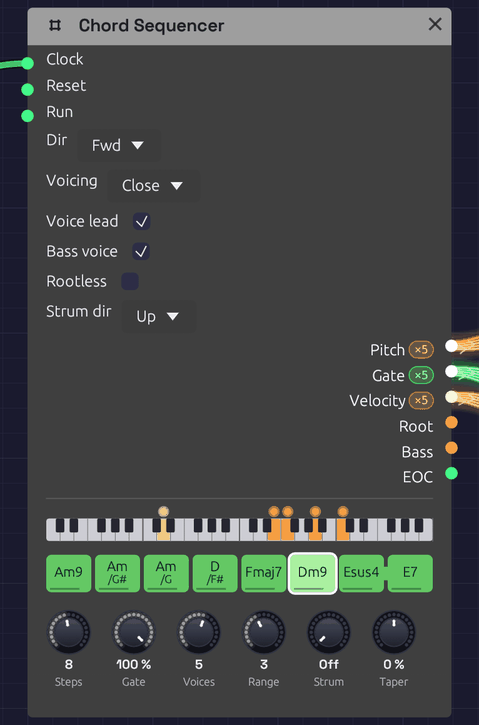
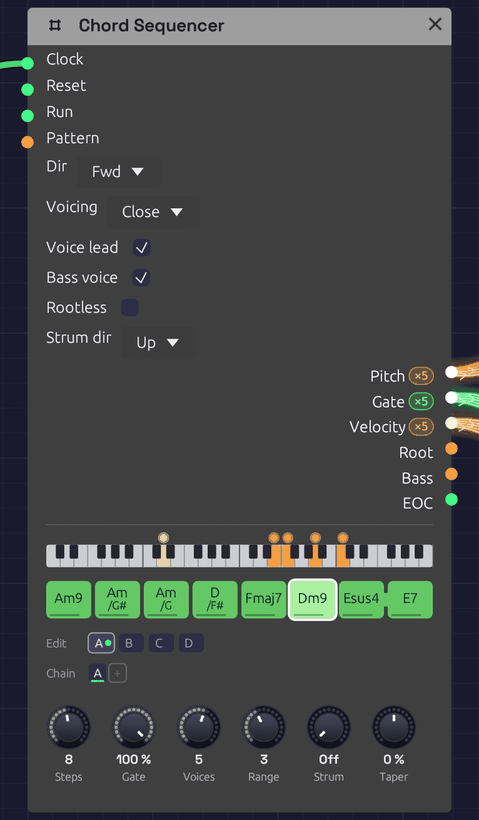
[Phase 14] Make room for the Chord Sequencer's pattern tabs in four examples
- From One Sine: Harmony grows 80; the left column below it (Motif, Pad,
  Drums) moves down 80, and the film's aim points there move with it
- Front Porch: The hand grows 84 and The porch moves down under it
- Held Vowels: The pad grows 86
- Soba Speaks: the pad's note moves down clear of the face
- Module image re-shot with the tabs and Chain
- check_layout passes on all four

Refs #240

Claude-Session: https://claude.ai/code/session_01L5A3PZ5EnxuytECsamML6D

diff --git a/tools/showcase/shots.py b/tools/showcase/shots.py
@@ -397,28 +397,30 @@ def from_one_sine(s):
     # is 5923 x 4957, so it fits at the 0.2 minimum zoom.
     c = (960.0, 508.0)
     whole = (2962, 2479)
-    motif = (888, 2391)
-    opening = (500, 2198)
+    # The left column below Harmony moved down 80 when the Chord Sequencer
+    # grew its pattern tabs (#240)
+    motif = (888, 2471)
+    opening = (500, 2278)
     # (start, glide seconds, centre, zoom, what)
     shots = [
         (-1.0, 0.05, opening, 1.5, "the sine and its sequencer, alone, with the note that explains them"),
-        (3.0, 13.0, (860, 2248), 1.25, "a slow drift along the motif"),
+        (3.0, 13.0, (860, 2328), 1.25, "a slow drift along the motif"),
         (u(3), 12.0, (1895, 2429), 0.43, "back out: the pad, sparkles and harmony arrive"),
         (u(5) - 1.0, 3.0, (3100, 734), 0.64, "Pulse: arp and bass"),
         (u(7) - 0.5, 3.0, (2990, 2033), 0.88, "the bells and sparkles"),
         (u(8) + 1.0, 3.0, (2808, 2995), 1.1, "the riser"),
-        (u(9) - 0.6, 1.4, (1623, 4474), 0.56, "Groove: the kit"),
+        (u(9) - 0.6, 1.4, (1623, 4554), 0.56, "Groove: the kit"),
         (u(11), 4.0, (5002, 2206), 0.9, "the desk"),
-        (u(13) - 1.0, 3.0, (1150, 2391), 0.95, "Lift: the lead takes the motif"),
+        (u(13) - 1.0, 3.0, (1150, 2471), 0.95, "Lift: the lead takes the motif"),
         (u(15), 6.0, whole, 0.2, "the whole rack"),
-        (u(17) - 1.0, 4.0, (1640, 2225), 1.25, "Memory: the Looper plays the opening back"),
+        (u(17) - 1.0, 4.0, (1640, 2305), 1.25, "Memory: the Looper plays the opening back"),
         (u(18) + 4.0, 5.0, (1048, 805), 0.9, "the three Arrangers: Desk's faders, Cues, and Tape bending the Wow"),
         (u(19) + 4.5, 4.0, (5366, 2330), 1.4, "Build: on tape, the mix bending as the reels turn"),
         (u(20) + 4.0, round(SONG_UNIT - 4.0, 3), whole, 0.2, "the build pulls back to the whole rack, landing on the drop"),
         (u(22), 8.0, (2962, 2398), 0.21, "Everything: a breath closer, every module still in frame"),
         (u(23) + 3.0, 5.0, (3100, 1080), 0.95, "the bass, driven harder as the song brightens"),
         (u(25) - 1.0, 3.0, motif, 0.88, "Second wave: the sine over the groove, its ghost beneath"),
-        (u(27), 4.0, (1623, 3974), 0.48, "the pad breathing over the kick"),
+        (u(27), 4.0, (1623, 4054), 0.48, "the pad breathing over the kick"),
         (u(29), 6.0, whole, 0.2, "Return"),
         (u(31), 12.0, opening, 1.5, "back to the one sine"),
     ]
